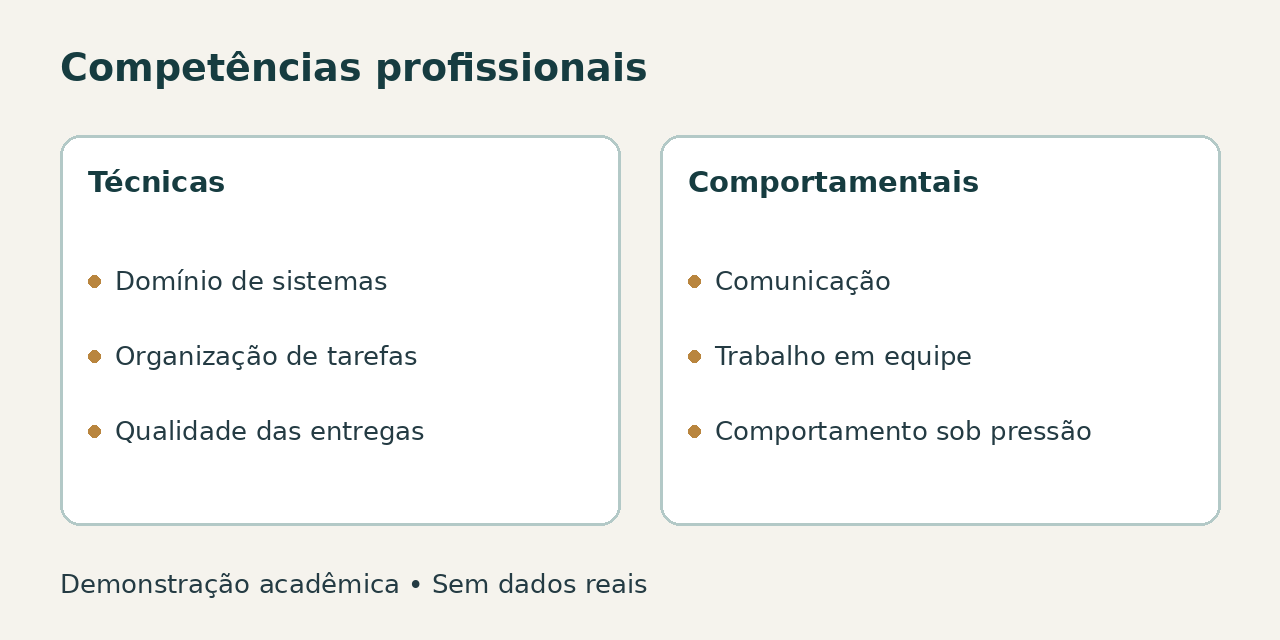
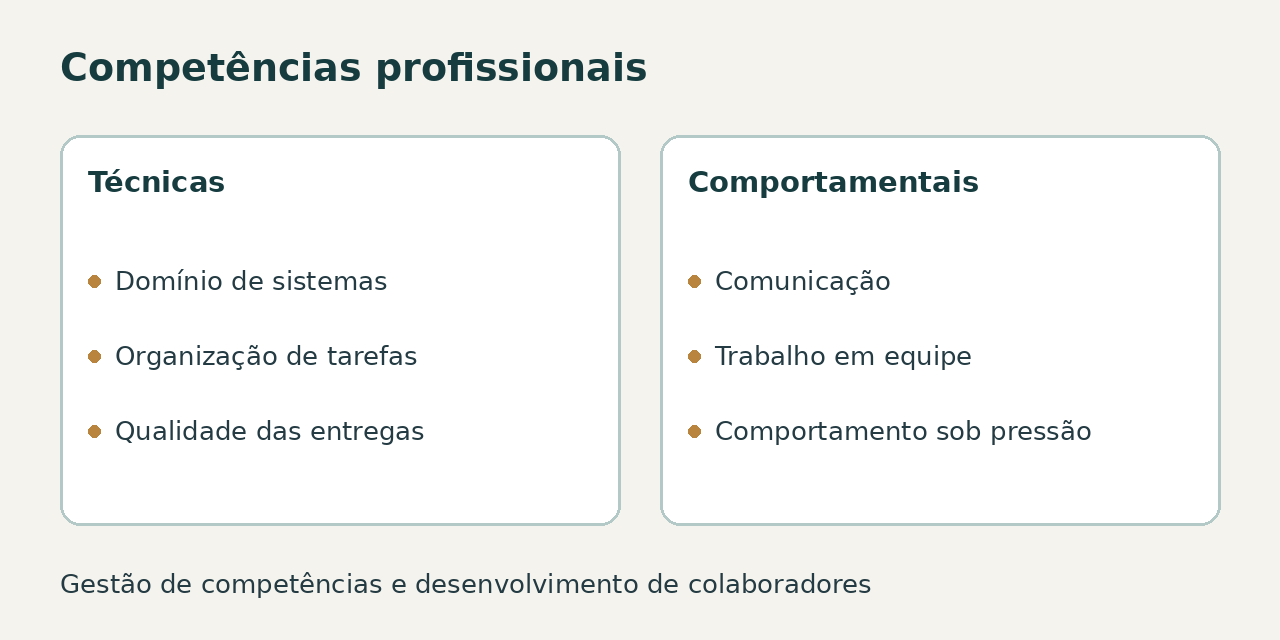
fix: ajusta apresentacao profissional do sistema

Changed region(s): [[0.0312, 0.875, 0.6875, 0.9375]]

diff --git a/index.html b/index.html
@@ -7,8 +7,7 @@
 </head>
 <body>
     <h1>Sistema de Avaliação de Competências</h1>
-    <p>Demonstração acadêmica para apresentar competências técnicas e comportamentais de colaboradores administrativos de escritórios de advocacia.</p>
-    <p>Todos os códigos e resultados apresentados são fictícios e servem apenas como exemplos de estudo.</p>
+    <p>Gestão de competências técnicas e comportamentais para apoiar o desenvolvimento de colaboradores administrativos de escritórios de advocacia.</p>
 
     <h2>Competências avaliadas</h2>
     <ul>
@@ -25,15 +24,16 @@
          alt="Quadro com dois grupos: competências técnicas — domínio de sistemas, organização de tarefas e qualidade das entregas; competências comportamentais — comunicação, trabalho em equipe e comportamento sob pressão."
          width="640" height="320">
 
-    <h2>Exemplos de resultados fictícios</h2>
-    <p>As notas de 1 a 5 são apenas ilustrativas. Nesta etapa, não há cálculo nem coleta de avaliações.</p>
+    <h2>Prévia de Resultados</h2>
+    <p>Visão geral das competências e das notas atribuídas.</p>
+    <p><small>Dados de demonstração.</small></p>
     <table>
-        <caption>Amostra fictícia de notas por competência</caption>
+        <caption>Resultados por competência</caption>
         <thead>
             <tr>
-                <th scope="col">Código fictício</th>
+                <th scope="col">Colaborador</th>
                 <th scope="col">Competência</th>
-                <th scope="col">Nota de exemplo (1 a 5)</th>
+                <th scope="col">Nota (1 a 5)</th>
             </tr>
         </thead>
         <tbody>
@@ -46,9 +46,9 @@
         </tbody>
     </table>
 
-    <h2>Referência para o desenvolvimento</h2>
-    <p>Para conhecer a linguagem utilizada nesta página, consulte a
-        <a href="https://developer.mozilla.org/pt-BR/docs/Web/HTML" target="_blank" rel="noopener noreferrer">documentação de HTML da MDN (abre em nova aba)</a>.
-    </p>
+    <details>
+        <summary>Referências técnicas</summary>
+        <p><a href="https://developer.mozilla.org/pt-BR/docs/Web/HTML" target="_blank" rel="noopener noreferrer">Documentação HTML — MDN (abre em nova aba)</a></p>
+    </details>
 </body>
 </html>
